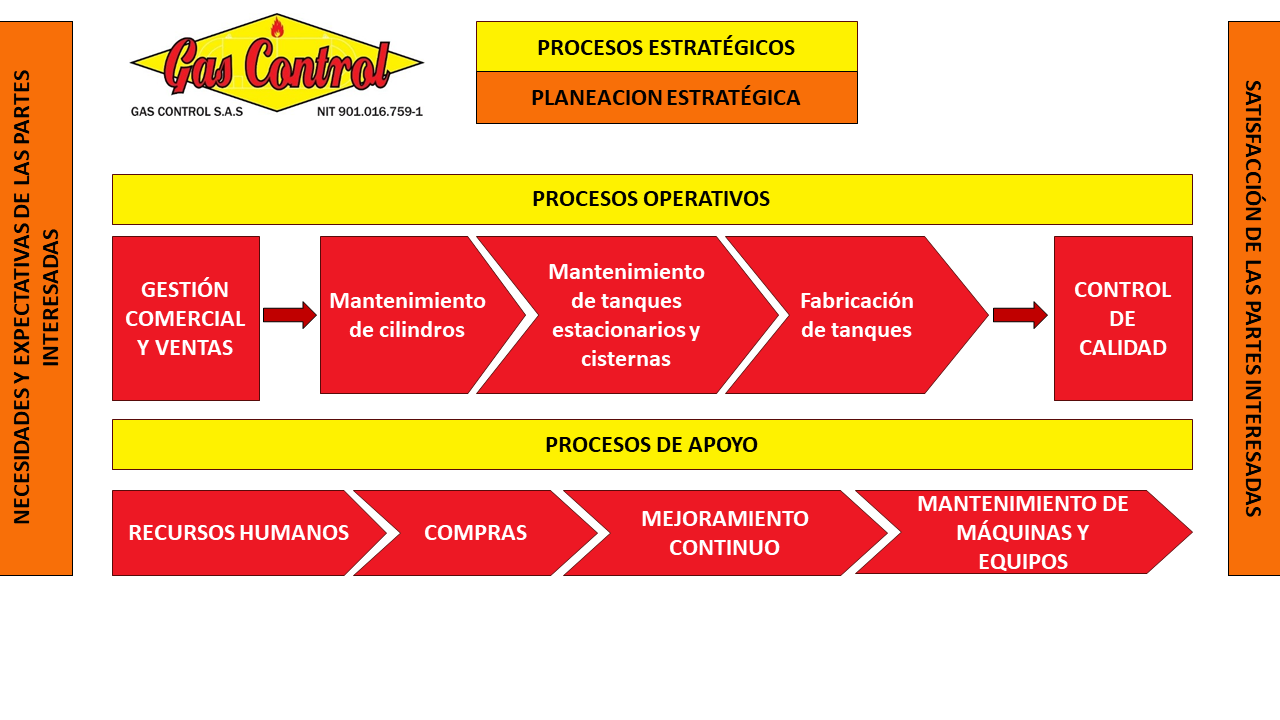
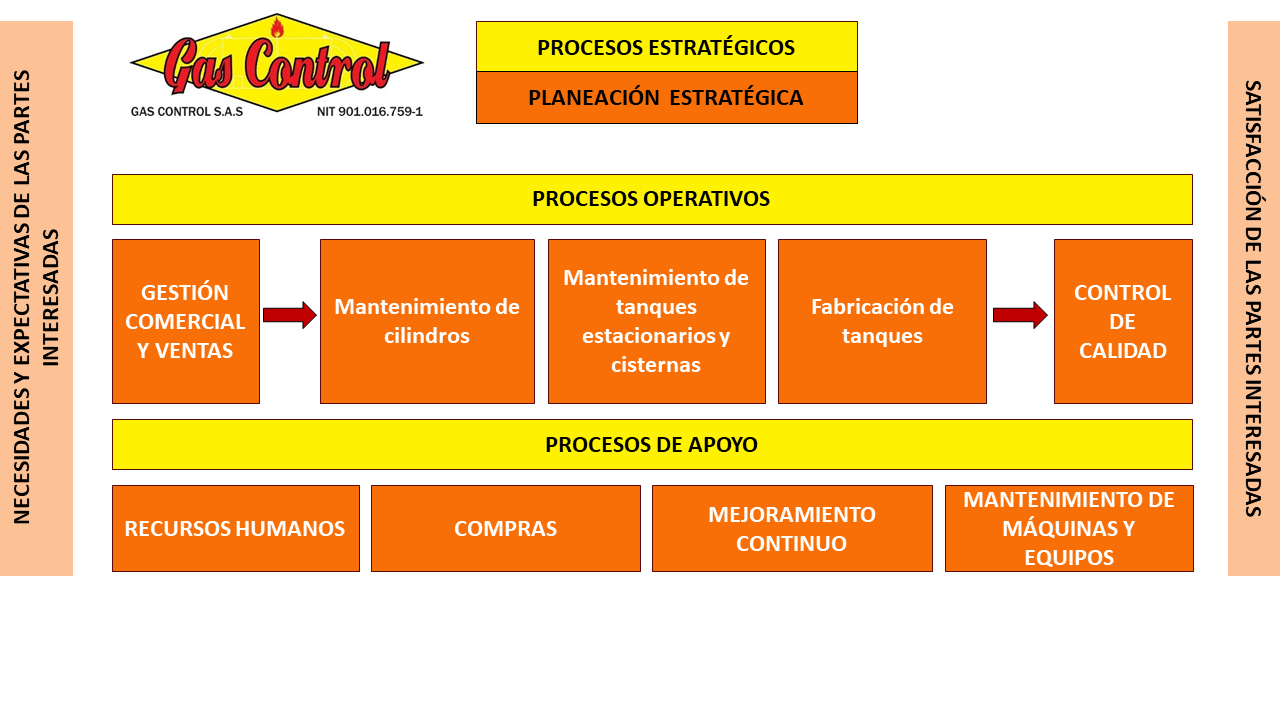
tercer agregado

diff --git a/css/estilos.css b/css/estilos.css
@@ -631,7 +631,7 @@ Pagina descargas
   width: 100%;
   border-radius: 4px;
   background-color: transparent;
-  color: rgb(255, 255, 255);
+  color: rgb(36, 34, 34);
   font-size: 15px;
   overflow: hidden;
   transition: all 500ms ease;
@@ -641,6 +641,14 @@ Pagina descargas
   cursor: pointer;
 }
   
+.triangle-right {
+	width: 0;
+	height: 0;
+	border-top: 25px solid transparent;
+	border-left: 50px solid #555;
+	border-bottom: 25px solid transparent;
+  padding:0, 0,0, 20, 20;
+}
 .btn::before{
     content: "";
     position: absolute;
@@ -653,9 +661,9 @@ Pagina descargas
     z-index: -1;
   }
 .btnes:hover{
-  background-color: rgb(248, 111, 8);
-  box-shadow: 0 0 10px rgb(248, 111, 8), 0 0 20px rgb(248, 111, 8), 0 0 20px rgb(248, 111, 8);
-  color: rgb(90, 85, 85); 
+  background-color: rgb(237, 24, 36);
+  box-shadow: 0 0 10px rgb(237, 24, 36), 0 0 20px rgb(237, 24, 36), 0 0 20px rgb(237, 24, 36);
+  color: rgb(241, 238, 238); 
   
 }
 
@@ -867,13 +875,13 @@ input[type=submit]:hover {
 }
 
 .marco01 {
-   background-color: rgb(237, 24, 36);
+   background-color:  rgb(248, 111, 8);
     position: absolute;
-    margin-top: 205.5px;
+    margin-top: 208px;
     margin-left: 95px;
     cursor: pointer;
     width: 128px; 
-    height: 145px;
+    height: 146px;
     text-align:center ;    
     display: flex;
     align-items: center;
@@ -881,11 +889,11 @@ input[type=submit]:hover {
 }
 
 .marco02 {
-    background-color: rgb(237, 24, 36);
-    margin-top: 205.5px;
+    background-color:  rgb(248, 111, 8);
+    margin-top: 208px;
     margin-left: 274px;
-    width: 128px; 
-    height: 145px;
+    width: 185px; 
+    height: 146px;
     cursor: pointer;
     position: absolute;
     text-align:center ;    
@@ -895,13 +903,13 @@ input[type=submit]:hover {
 }
 
 .marco03 {
-  background-color: rgb(237, 24, 36);
+  background-color:  rgb(248, 111, 8);
     position: absolute;
-    margin-top: 205.5px;
-    margin-left: 462px;
+    margin-top: 208px;
+    margin-left: 470px;
     cursor: pointer;
-    width: 153px; 
-    height: 145px;
+    width: 188px; 
+    height: 146px;
     text-align:center ;    
     display: flex;
     align-items: center;
@@ -909,23 +917,24 @@ input[type=submit]:hover {
     
 
 .marco04 {
-   background-color: rgb(237, 24, 36);
+   background-color:  rgb(248, 111, 8);
     position: absolute;
-    margin-top: 205.5px;
-    margin-left: 678px;
+    margin-top: 208px;
+    margin-left: 667px;
     cursor: pointer;
-    width: 117px; 
-    height: 145px;
+    width: 181px; 
+    height: 146px;
     text-align:center ;    
     display: flex;
     align-items: center;
+    justify-content: center;
 }
 
 .marco05 {
-  background-color: rgb(237, 24, 36);
+  background-color:  rgb(248, 111, 8);
   position: absolute;
-  margin-top: 205.5px;
-    margin-left: 905px;
+  margin-top: 208px;
+  margin-left: 905px;
   cursor: pointer;
   width: 119px; 
   height: 145px;
@@ -936,13 +945,13 @@ input[type=submit]:hover {
 }
 
 .marco06 {
-  background-color:  rgb(237, 24, 36);
+  background-color:   rgb(248, 111, 8);
     position: absolute;
-    margin-top: 428px;
+    margin-top: 423px;
     margin-left: 95px;
     cursor: pointer;
-    width: 200px;
-    height: 75px;
+    width: 214px;
+    height: 77px;
     text-align:center ;    
     display: flex;
     align-items: center;
@@ -951,13 +960,13 @@ input[type=submit]:hover {
 }
 
 .marco07 {
-  background-color: rgb(237, 24, 36);
+  background-color:  rgb(248, 111, 8);
     position: absolute;
-    margin-top: 428px;
-    margin-left: 343px;
+    margin-top: 423px;
+    margin-left: 318px;
     cursor: pointer;
-    width: 120px;
-    height: 75px;
+    width: 232px;
+    height: 77px;
     text-align:center ;    
     display: flex;
     align-items: center;
@@ -965,26 +974,28 @@ input[type=submit]:hover {
 }
 
 .marco08 {
-  background-color: rgb(237, 24, 36);
+  background-color:  rgb(248, 111, 8);
     position: absolute;
-    margin-top: 428px;
-    margin-left: 523px;
+    margin-top: 423px;
+    margin-left: 559px;
     cursor: pointer;
-    width: 200px;
-    height: 75px;
+    width: 242px;
+    height: 77px;
     text-align:center ;    
     display: flex;
     align-items: center;
+    justify-content: center;
+
 }
 
 .marco09 {
-  background-color: rgb(237, 24, 36);
+  background-color:  rgb(248, 111, 8);
     position: absolute;
-    margin-top: 428px;
-    margin-left: 773px;
+    margin-top: 423px;
+    margin-left: 811px;
     cursor: pointer;
-    width: 212px;
-    height: 75px;
+    width: 214px;
+    height: 77px;
     text-align:center ;    
     display: flex;
     align-items: center;

diff --git a/Mapa-de-Procesos.html b/Mapa-de-Procesos.html
@@ -64,7 +64,7 @@ jQuery.extend(Drupal.settings, {"basePath":"\/","pathPrefix":"","ajaxPageState":
                                           <a href="compras.html" ><div class="marco07 btn btnes carpet">COMPRAS</div></a>
                                           <a href="mejoramiento continuo.html" ><div class="marco08 btn btnes carpet">MEJORAMIENTO CONTINUO</div></a>
                              
-                                          <a href="mantenimiento de maquinas y equipos.html" ><div class="marco09 btn btnes carpet">MANTENIMIENTO DE MÁQUINAS Y EQUIPOS</div></a>
+                                          <a href="" ><div class="marco09 btn btnes carpet">MANTENIMIENTO DE MÁQUINAS Y EQUIPOS</div></a>
                                           
                                           
                                     </div>
